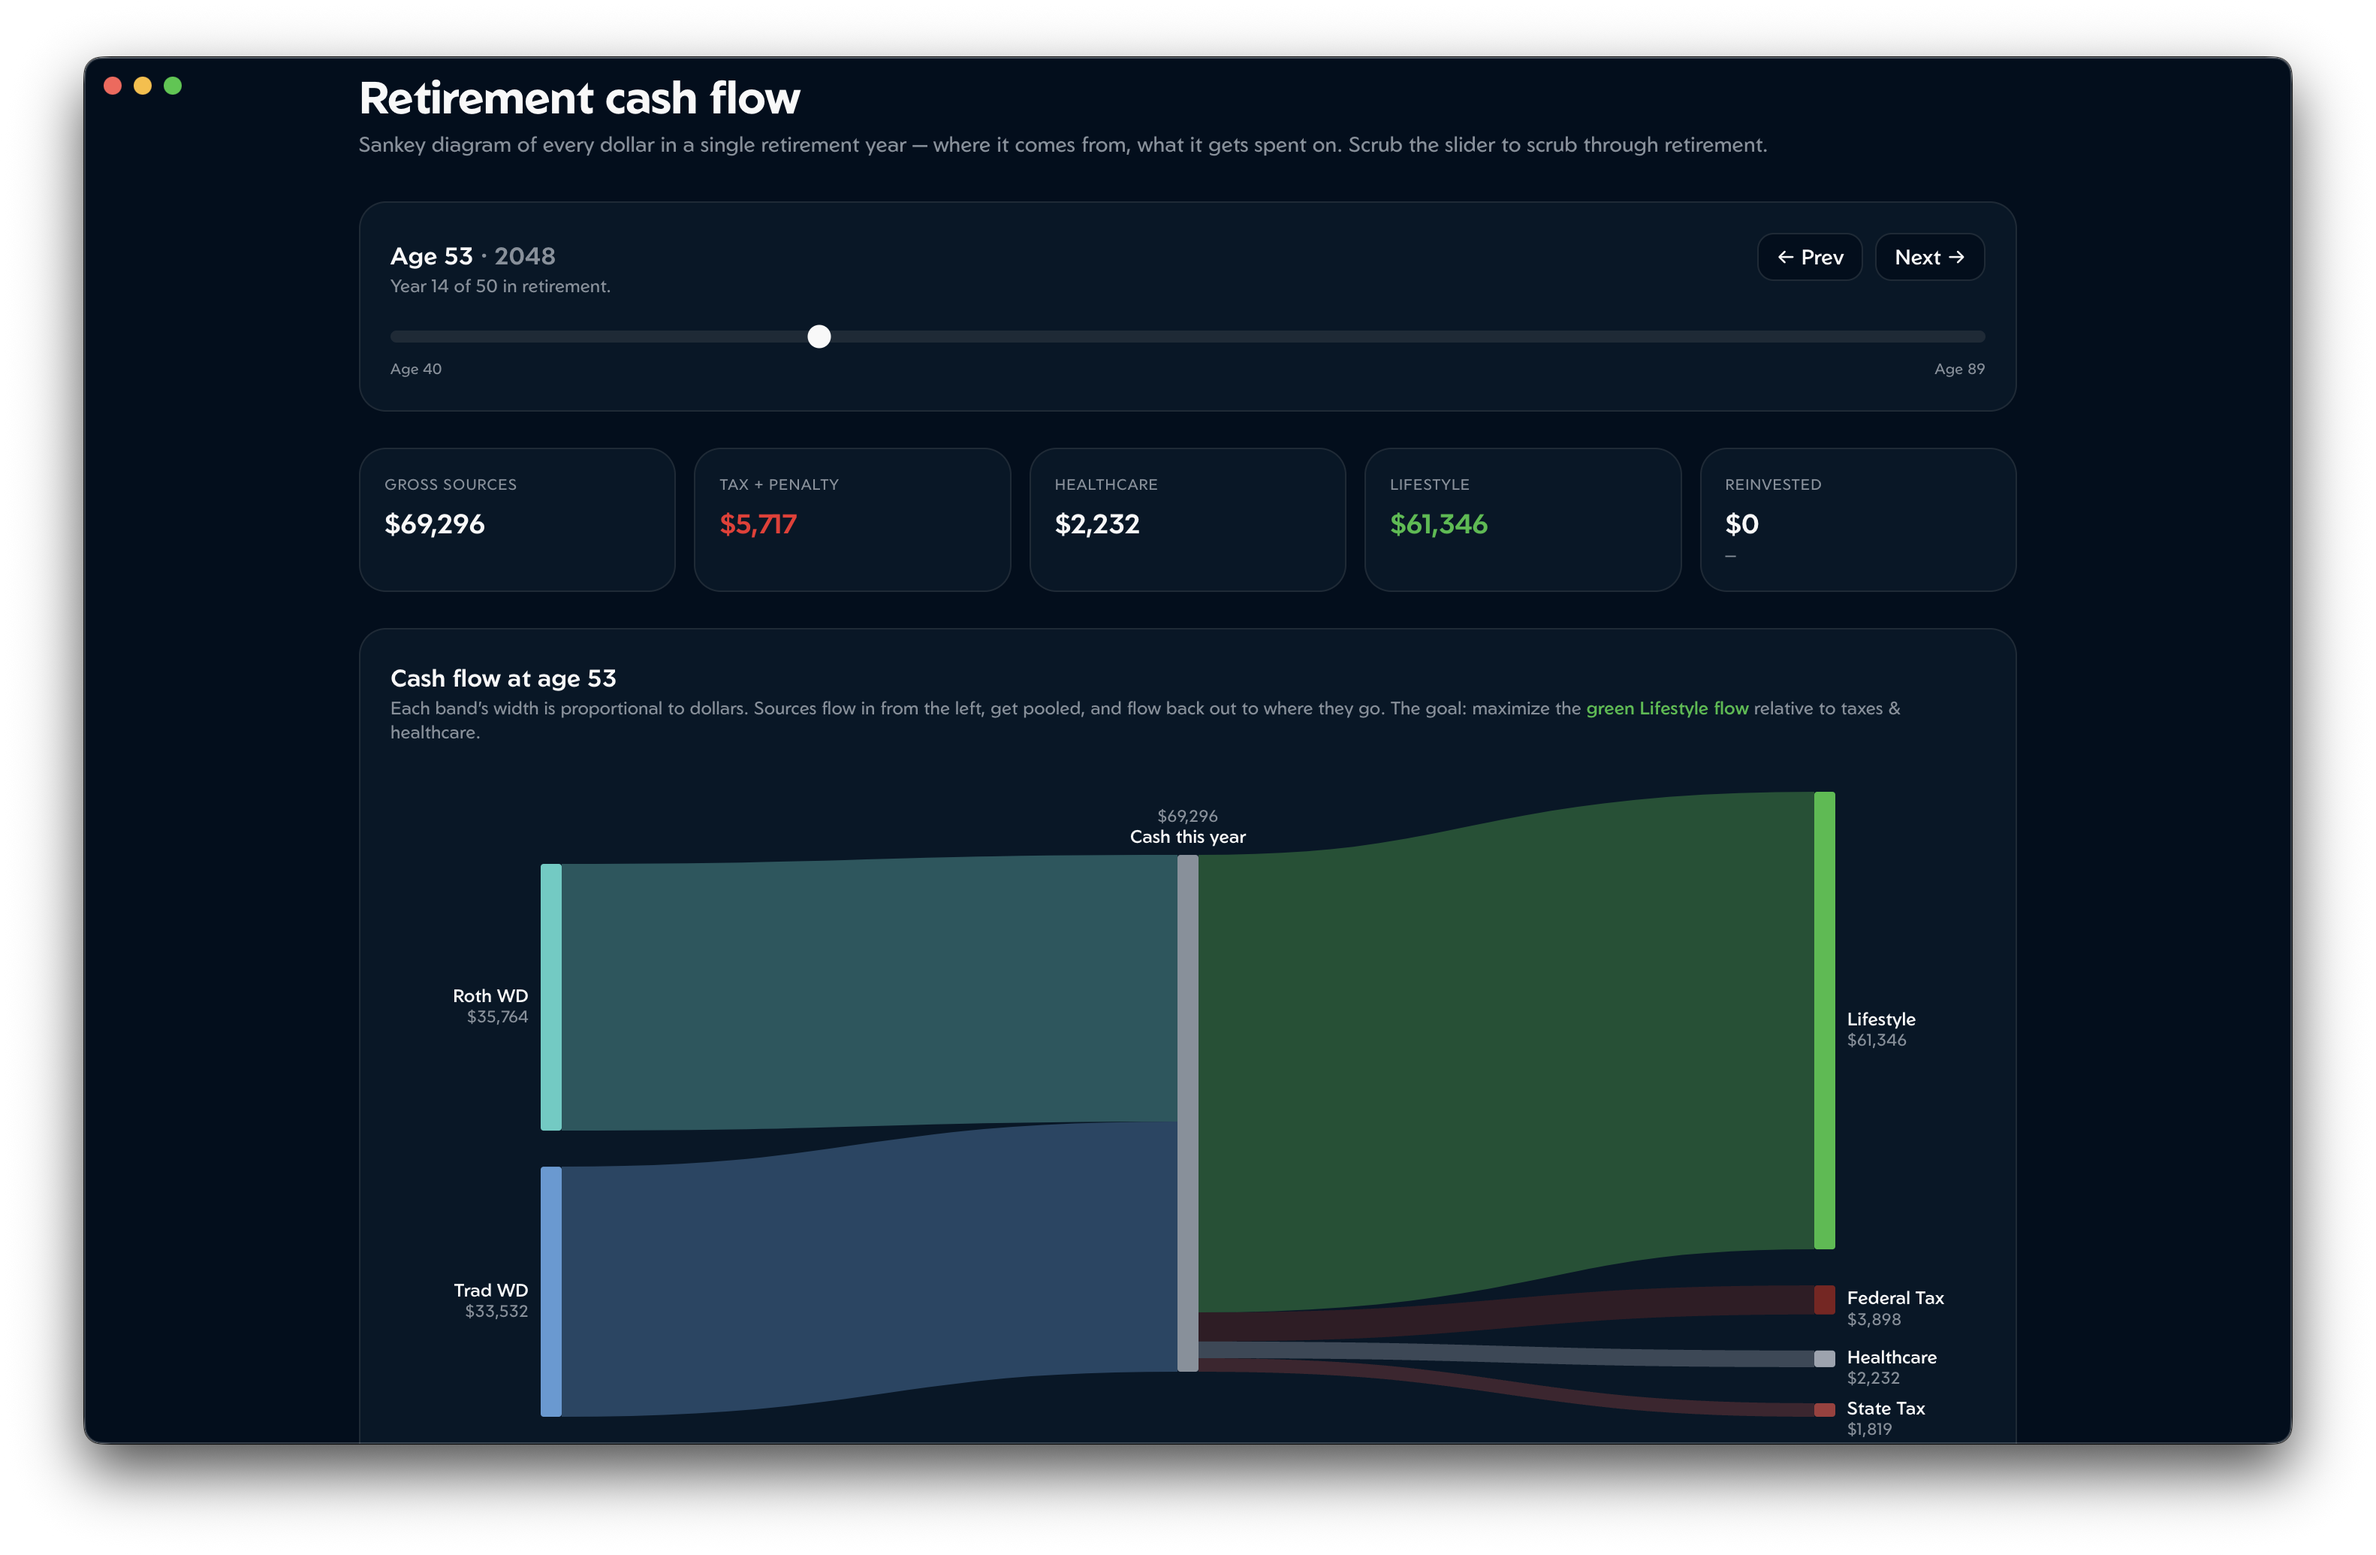
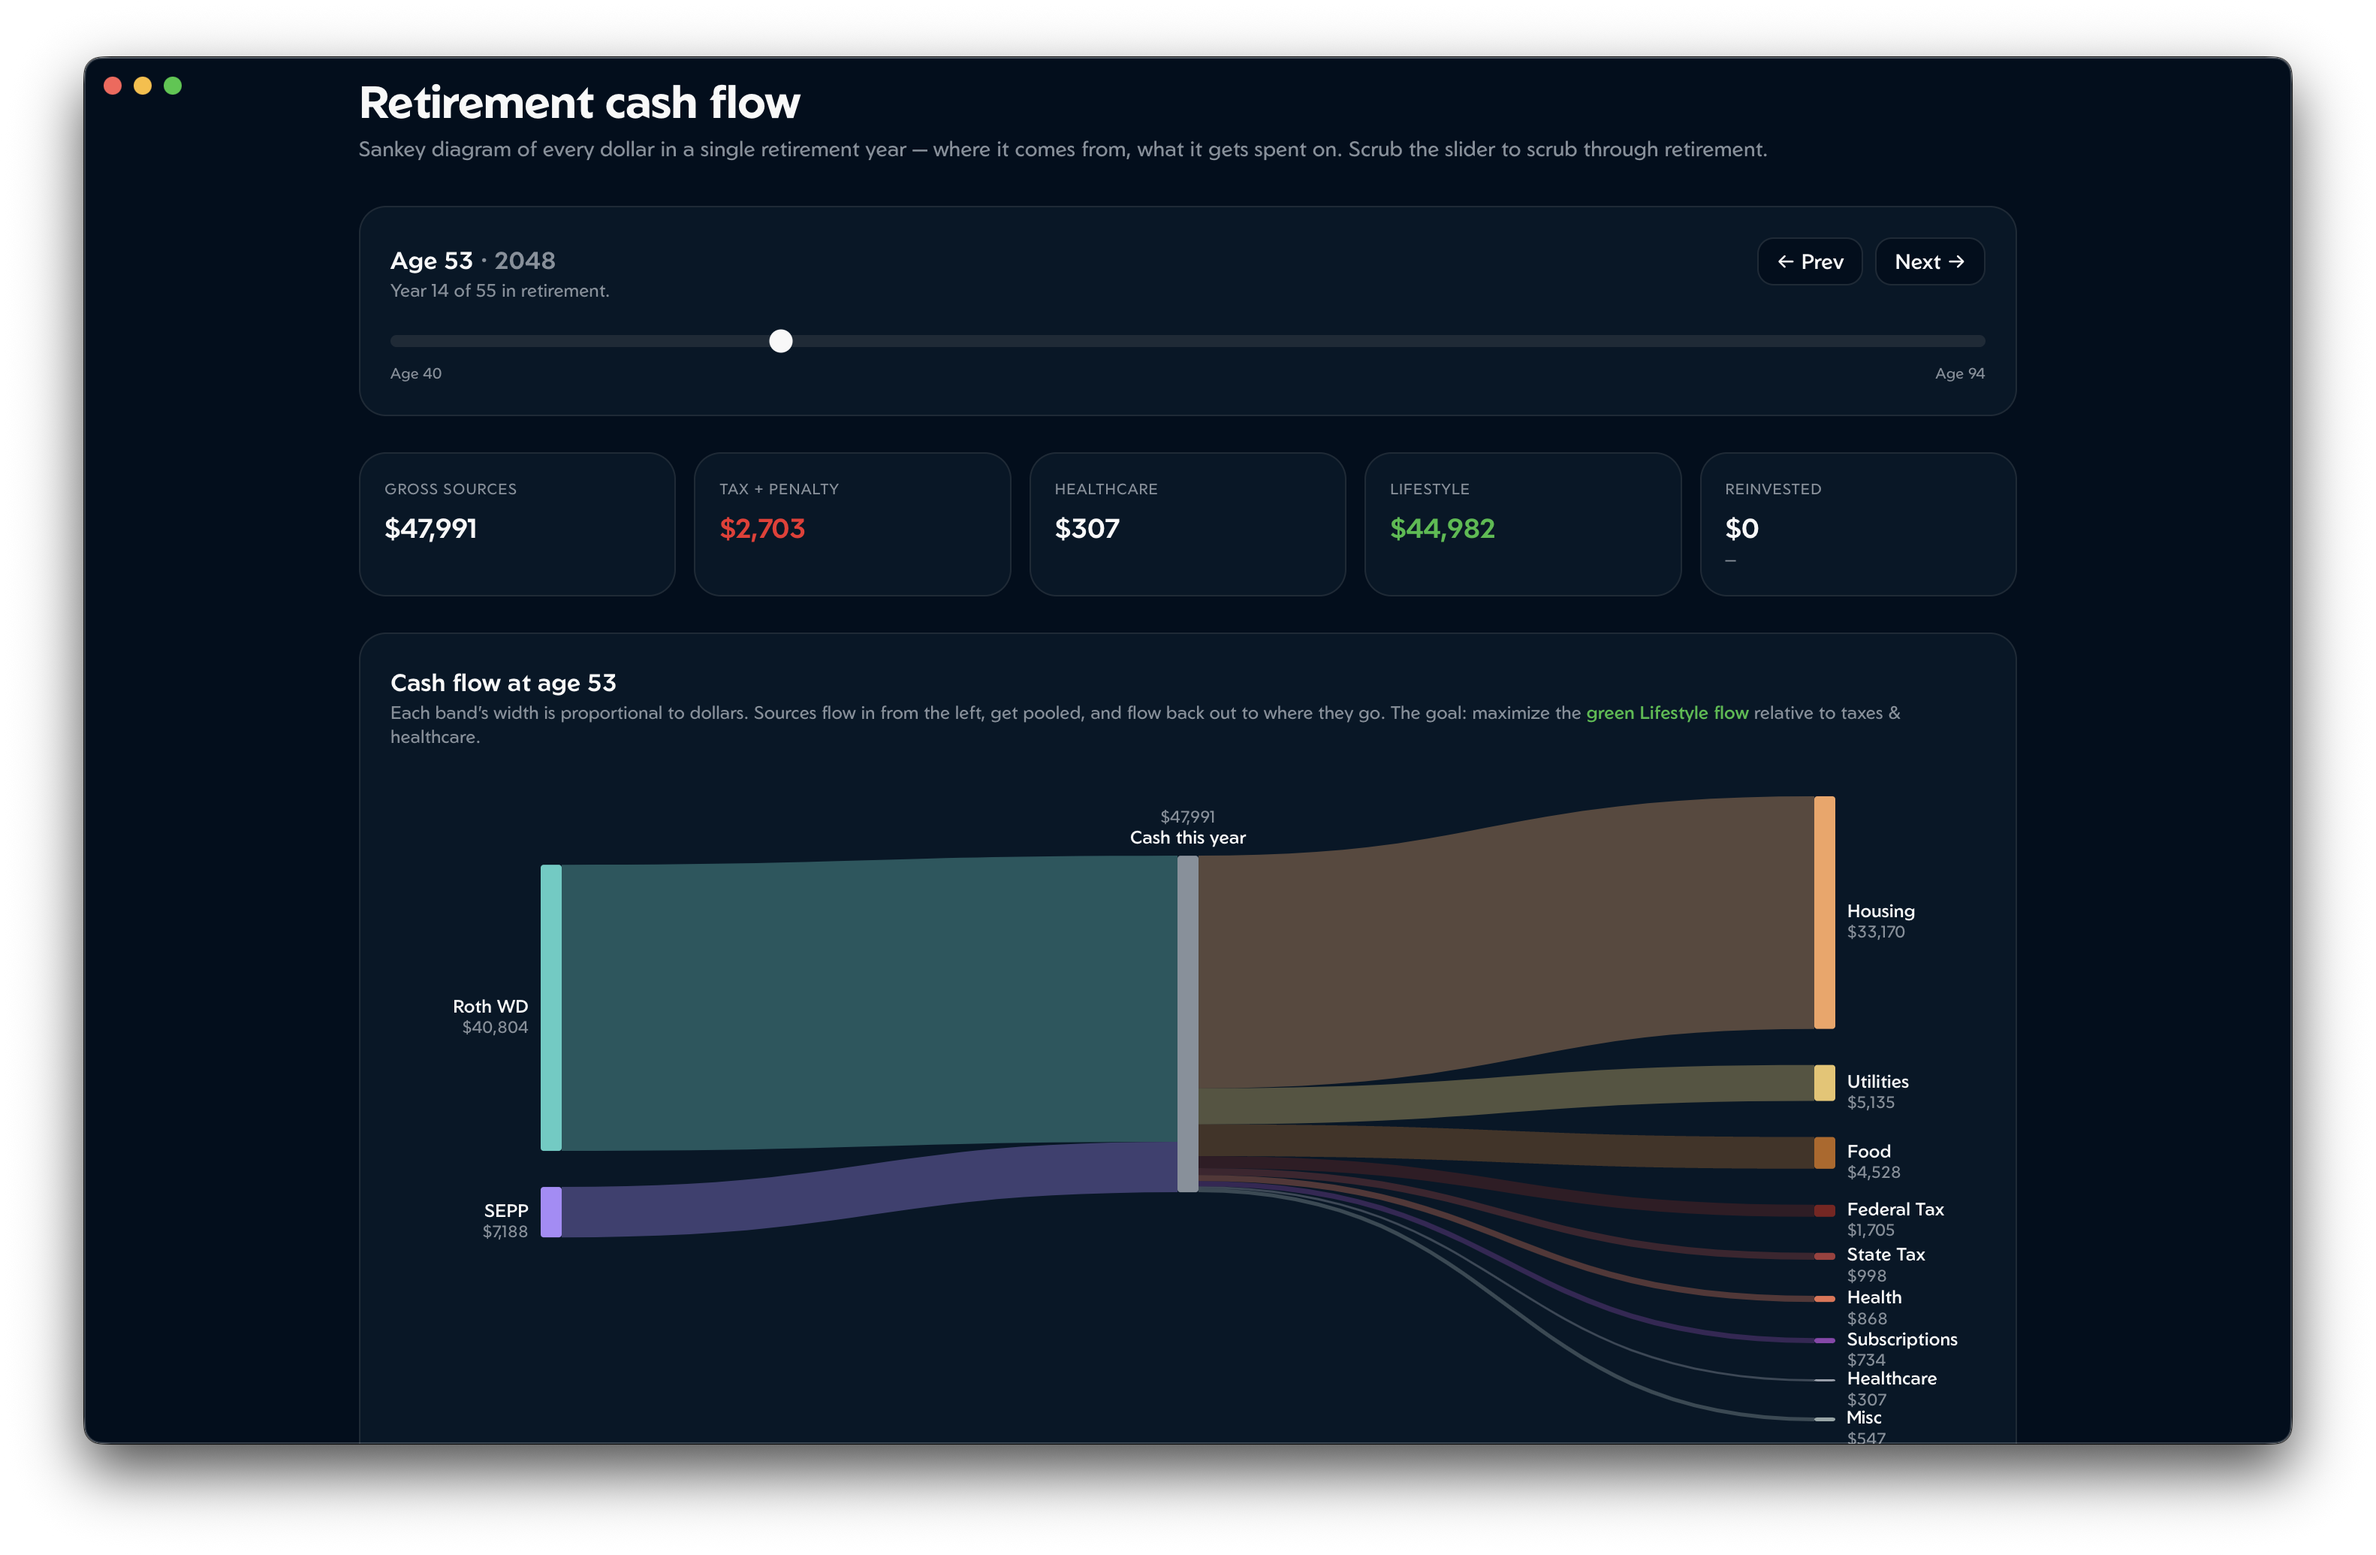
Update Sankey screenshot; surface Budget Analysis feature
- Replaced screenshots/retirement-cash-flow.png with the new year-scrub
  view (KPI tiles + categorized Sankey). Image alt text rewritten to
  describe what is actually on screen rather than the old version's
  feature list.
- Path-to-FI feature card now mentions the built-in budget analyzer
  as the source of the FI target — anchors the new feature where it
  matters most (FI target = budget, not a guessed round number).
- Changelog 2026.0.0 highlights now include a dedicated Budget
  Analysis bullet, sitting between Path-to-FI and the Drawdown
  planner where it architecturally belongs.

diff --git a/index.html b/index.html
@@ -186,7 +186,7 @@
               <div>
                 <h3 class="text-xl font-bold tracking-tight">Path to FI</h3>
                 <p class="mt-1.5 text-slate-600 leading-relaxed">
-                  Multi-bucket accumulation modeling — taxable, traditional, Roth, HSA — with per-account growth rates, employer match, HSA tax credit, and inflation-adjusted projections.
+                  Multi-bucket accumulation modeling — taxable, traditional, Roth, HSA — with per-account growth rates, employer match, HSA tax credit, and inflation-adjusted projections. Your FI target is derived from a built-in budget analyzer (category-by-category), so it reflects what you actually spend, not a guessed round number.
                 </p>
               </div>
             </div>
@@ -281,7 +281,7 @@
               </div>
             </div>
             <div class="shot mt-auto pt-5">
-              <img src="screenshots/retirement-cash-flow.png" alt="Sankey diagram showing retirement cash flow: account withdrawals, Social Security, conversions, taxes, ACA premiums, and net spending" loading="lazy" />
+              <img src="screenshots/retirement-cash-flow.png" alt="Retirement cash-flow Sankey diagram with a year scrubber: withdrawal sources pool into a single year's cash, then flow out to spending categories (housing, utilities, food, healthcare, taxes, lifestyle), with KPI tiles for gross sources, tax + penalty, healthcare, lifestyle, and reinvested amounts" loading="lazy" />
             </div>
           </article>
 

diff --git a/changelog.html b/changelog.html
@@ -78,6 +78,7 @@
 
           <ul>
             <li>Path-to-FI accumulation projections across taxable, traditional, Roth, and HSA buckets, with employer match, HSA tax credit, and inflation-adjusted figures.</li>
+            <li>Budget analysis — define spending category by category to derive a real FI target and power the year-by-year drawdown view, rather than guessing a single annual number.</li>
             <li>Drawdown planner with four Roth conversion ladder modes, ACA premium-subsidy optimization, SEPP 72(t) carve-outs, RMD modeling, Social Security claim-age strategies, and full state + locality income tax (51 states plus NYC, Detroit, and Maryland counties).</li>
             <li>Monte Carlo simulator with both normal-distribution sampling and historical bootstrap mode using a bundled 1928–2024 dataset (S&amp;P 500, 10-yr Treasury, T-bills, CPI).</li>
             <li>Deterministic stress tests against the 1929, 1973–74, 2000, 2008, and 2022 sequences.</li>
